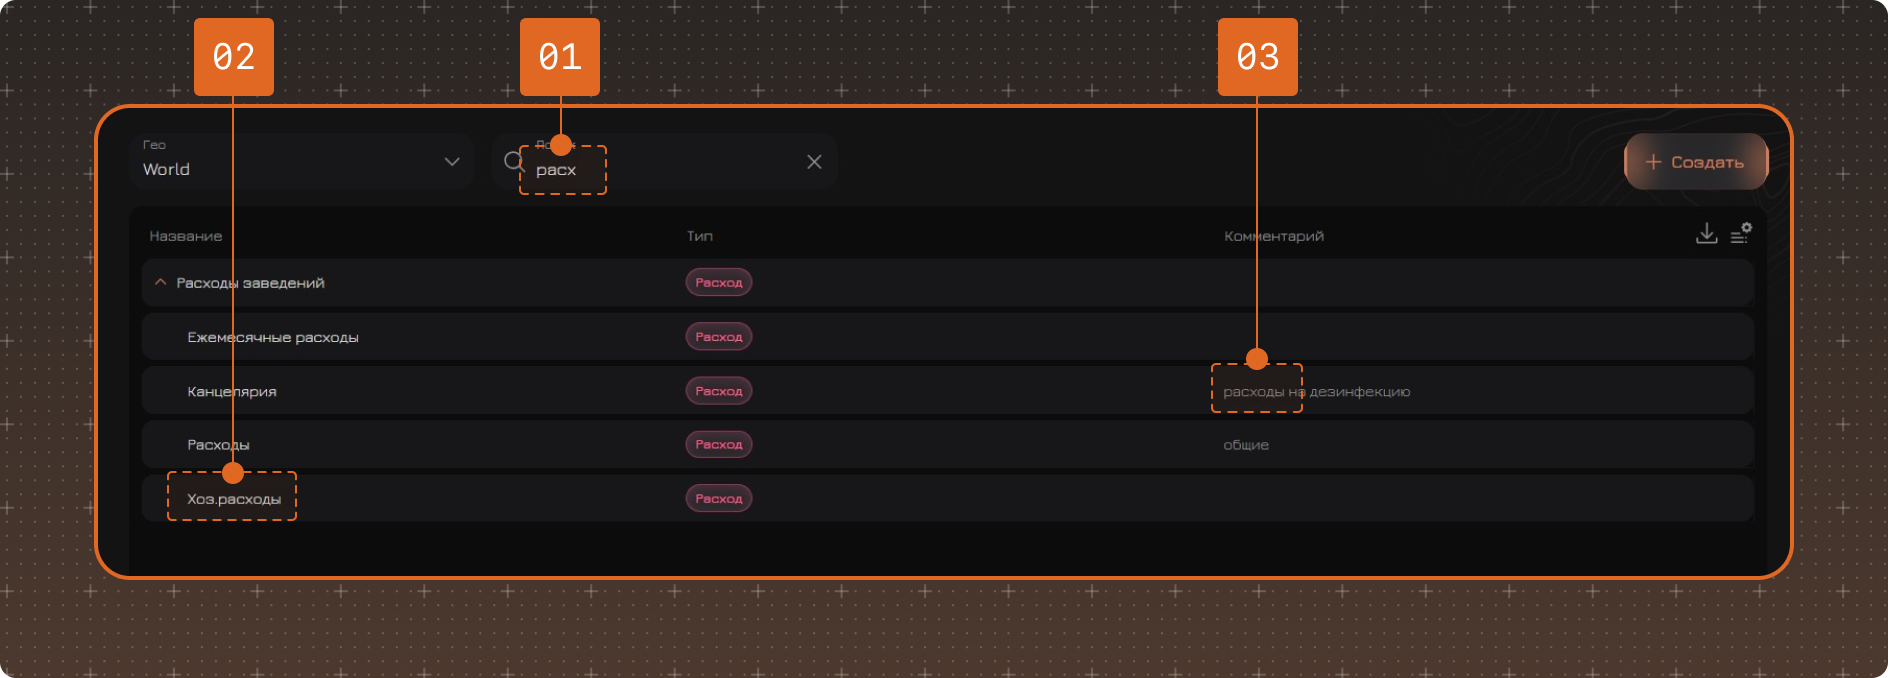
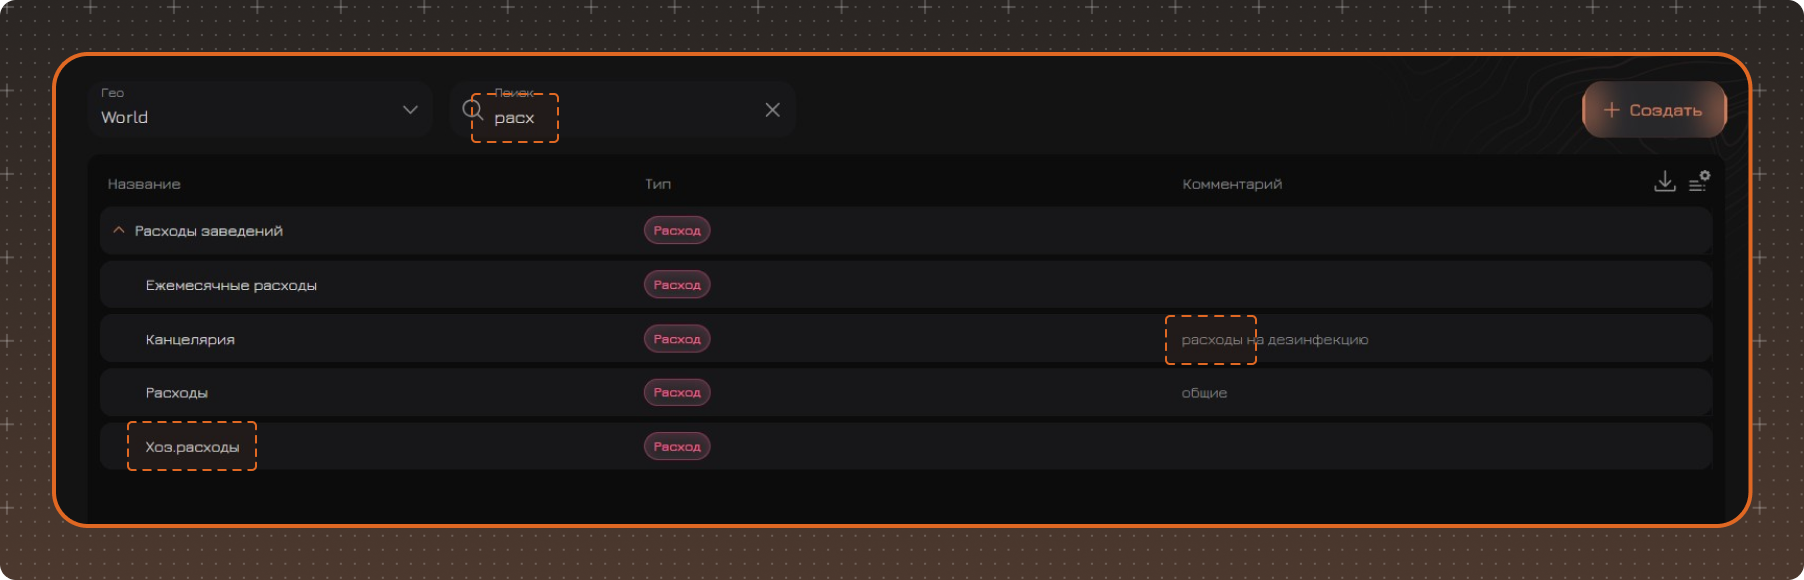
categories update

diff --git a/content/ru/archive/finance/categories/general-info.md b/content/ru/archive/finance/categories/general-info.md
@@ -3,7 +3,7 @@ title: Общая информация
 description: 
 summary: 
 order: 1
-updatedAt: 2026-06-30
+updatedAt: 2026-08-25
 ---
 
 ## Категории
@@ -18,8 +18,8 @@ updatedAt: 2026-06-30
 
 | ENG | RU | Описание |
 |-----|----|----------|
-| **Income** | Доходы | Тип категории, к которой могут относиться только **доходные (входящие)** транзакции. |
-| **Expenses** | Расходы | Тип категории, к которой могут относиться только **расходные (исходящие)** транзакции. |
+| **Income** | Доход | Тип категории, к которой могут относиться только **доходные (входящие)** транзакции. |
+| **Expenses** | Расход | Тип категории, к которой могут относиться только **расходные (исходящие)** транзакции. |
 | **All** | Все | Универсальный тип категории, который может содержать подкатегории и транзакции **любых типов** (**Доходы** или **Расходы**). |
 
 ## Дефолтные категории
@@ -30,7 +30,7 @@ updatedAt: 2026-06-30
 
  [[delimiter rows=1]]
 
-Это 8 категорий, которые система автоматически создаёт **при создании новой локации**. Они покрывают основные ежедневные финансовые потоки заведения и отмечаются ярлычком с замком. Название ярлычка изменить нельзя.
+Это 8 категорий, которые система автоматически создает **при создании новой локации**. Они покрывают основные ежедневные финансовые потоки заведения и отмечаются ярлычком с замком. Название ярлычка изменить нельзя.
 
  - **Общая/General** (All)
    - Эквайринг/Acquiring (Expenses)
@@ -43,7 +43,7 @@ updatedAt: 2026-06-30
 
  После создания локации пользователь может расширять это дерево собственными категориями в зависимости от структуры бизнеса.
 
- Все дефолтные категории создаются внутри **Main Category** - это родительская корневая категория. Она не используется в транзакциях, служит только контейнером для остальных категорий
+ Все дефолтные категории создаются внутри **Main Category** - это родительская корневая категория. Она не используется в транзакциях, служит только контейнером для остальных категорий.
 
 
  ## Описание категорий
@@ -51,7 +51,7 @@ updatedAt: 2026-06-30
  | Название категории  | Тип категории | Описание |
 |--------------------------------------------|---------------|----------|
 | **General / Общая** | **Все** | Базовая универсальная категория. Используется как категория по умолчанию, если транзакция ещё не распределена по конкретной категории |
-| **Acquiring / Эквайринг** | **Расходы** | Комиссии банка за эквайринг.<br><br>При поступлении платежей на банковский аккаунт по категориям **Выручка смены** и **Чаевые** система автоматически создаёт **расходные транзакции** по категории **Эквайринг** в соответствии с заданным в аккаунте (на который пришёл входящий платёж) процентом эквайринга |
+| **Acquiring / Эквайринг** | **Расход** | Комиссии банка за эквайринг. При поступлении платежей на банковский аккаунт по категориям **Выручка смены** и **Чаевые** система автоматически создаёт **расходные транзакции** по категории **Эквайринг** в соответствии с заданным в аккаунте (на который пришёл входящий платёж) процентом эквайринга |
 | **Tips / Чаевые** | **Доход** | Безналичные чаевые |
 | **Cash Shifts / Выручка смены** | **Все** | Выручка заведений |
 | **Profit / Прибыль** | **Расход** | Вывод средств собственником: дивиденды, вывод прибыли и аналогичные операции |
@@ -62,18 +62,18 @@ updatedAt: 2026-06-30
 
 ## Поиск категорий
 
-Поиск позволяет быстро найти нужную категорию.
-
-Поиск:
-- ищет совпадения в названии категории;
-- ищет совпадения в комментарии;
-- выполняется моментально по мере ввода текста;
-- не учитывает регистр символов;
-- отображает только категории, соответствующие поисковому запросу.
-
-
+Поиск позволяет найти категорию по названию или комментарию. Поиск выполняется по мере ввода текста и не учитывает регистр символов.
 
 ![Поиск](/ru/images/categories/search.png)
 
+[[delimiter rows=1]]
+ 
+
+
+
+
+
 
  [[delimiter rows=3]]
+
+ ---

diff --git a/content/ru/archive/finance/categories/create.md b/content/ru/archive/finance/categories/create.md
@@ -3,7 +3,7 @@ title: Создание и редактирование
 description: 
 summary: 
 order: 2
-updatedAt: 2026-07-02
+updatedAt: 2026-08-25
 ---
 
 ## Создание категории
@@ -38,7 +38,7 @@ updatedAt: 2026-07-02
 
 Доступные значения поля **Тип транзакций** зависят от типа родительской категории
 
-> ⚠ Если родительская категория имеет тип:
+>  Если родительская категория имеет тип:
 >
 > - **Все** — доступны типы `Все`, `Доход` и `Расход`
 > - **Доход** — доступен только `Доход`
@@ -50,7 +50,7 @@ updatedAt: 2026-07-02
 
 При изменении родительской категории система повторно проверяет совместимость типа категории.
 
-- если выбранный тип совместим с новым родителем — значение сохраняется;
+- если выбранный тип совместим с новым родителем — значение сохраняется
 - если несовместим — поле **Тип транзакций** очищается, после чего необходимо выбрать допустимый тип
 
 
@@ -73,8 +73,8 @@ updatedAt: 2026-07-02
 
 | Текущий тип | Куда можно перенести |
 |-----------------------------|----------------------|
-| **Доходы** | В категорию **Доходы** или **Все** |
-| **Расходы** | В категорию **Расходы** или **Все** |
+| **Доход** | В категорию **Доход** или **Все** |
+| **Расход** | В категорию **Расход** или **Все** |
 | **Все** | Только в категорию **Все** |
 
 При переносе категории вместе с ней перемещаются все её дочерние категории. При этом типы дочерних категорий не изменяются.
@@ -90,10 +90,12 @@ updatedAt: 2026-07-02
 
 | Текущий тип | Можно изменить на |
 |--------------|-------------------|
-| **Доходы** | **Все**, если родительская категория имеет тип **Все** |
-| **Расходы** | **Все**, если родительская категория имеет тип **Все** |
+| **Доход** | **Все**, если родительская категория имеет тип **Все** |
+| **Расход** | **Все**, если родительская категория имеет тип **Все** |
 | **Все** | Изменение недоступно |
 
 
 [[delimiter rows=3]]
+
+---
 

diff --git a/content/ru/archive/finance/categories/export.md b/content/ru/archive/finance/categories/export.md
@@ -3,7 +3,7 @@ title: Экспорт категорий
 description: 
 summary: 
 order: 3
-updatedAt: 2026-07-01
+updatedAt: 2026-08-26
 ---
 
 [[delimiter rows=2]]
@@ -14,7 +14,7 @@ updatedAt: 2026-07-01
 
 Полученный файл можно использовать как справочник при подготовке файлов для импорта транзакций, когда необходимо вручную указать ID категории.
 
----
+
 
 ## Как выполнить экспорт
 
@@ -22,20 +22,28 @@ updatedAt: 2026-07-01
 2. Нажмите кнопку **Экспорт**.
 3. Система автоматически скачает CSV-файл.
 
-[[info type=custom color=#E06823]] В экспорт включаются только категории, которые не скрыты[[/info]]
 
-![receipt_parser-2](/ru/images/transactions/receipt_parser/receipt_parser-2.jpg)
----
+
+![кнопка экспорт](/ru/images/categories/export.png)
+
+[[delimiter rows=1]]
+
+[[info type=custom color=#E06823]] 
+В экспорт включаются только категории, которые не скрыты[[/info]]
+
+
 
 ## Состав CSV-файла
 
 | Поле | Описание |
 |------|----------|
-| **Geo** | Значение, выбранное в поле **Geo** на момент экспорта. |
-| **ID** | Уникальный идентификатор категории. |
-| **Category** | Название категории. |
-| **Type** | Тип категории: `Расход`, `Доход` или `Все`. |
-| **Comment** | Содержимое поля **Comment**, если оно заполнено. |
+| **Geo** | Значение, выбранное в поле **Geo** на момент экспорта |
+| **ID** | Уникальный идентификатор категории |
+| **Category** | Название категории |
+| **Type** | Тип категории: `Расход`, `Доход` или `Все` |
+| **Comment** | Содержимое поля **Comment**, если оно заполнено |
 
 
 [[delimiter rows=3]]
+
+---

diff --git a/content/ru/archive/salary/general-info.md b/content/ru/archive/salary/general-info.md
@@ -40,7 +40,7 @@ updatedAt: 2026-07-09
 
 
 [[info type=custom color=#E06823]]
-Все компонетны расчета можно использовать как по отдельности, так и в любых сочетаниях
+Все компоненты расчета можно использовать как по отдельности, так и в любых сочетаниях
 [[/info]]
 
 [[delimiter rows=1]]
@@ -61,7 +61,7 @@ updatedAt: 2026-07-09
 
 Если изменить значение любого параметра в грейде, этот параметр перестает наследовать значение роли и использует собственное значение. Остальные параметры продолжают наследоваться от роли.
 
-Чтобы вернуть наследование всех параметров, нажмите **Reset to Role**.
+Чтобы вернуть наследование всех параметров, нажмите **Вернуть к роли**.
 
 
 ### Версии настроек
@@ -86,8 +86,10 @@ updatedAt: 2026-07-09
 
 Если нажать **Раскрыть все**, можно быстро просмотреть все изменения и сравнить выбранную версию с предыдущей.
 
-При восстановлении версии ее настройки становятся активными с выбранного периода.
+При восстановлении версии ее настройки становятся активными с начала выбранного периода.
 
 
 
 [[delimiter rows=3]]
+
+---

diff --git a/content/ru/archive/salary/location-salary.md b/content/ru/archive/salary/location-salary.md
@@ -30,7 +30,7 @@ updatedAt: 2026-07-09
 
 ✔ **При открытии стола** — все личные продажи относятся к сотруднику, который открыл стол.
 
-✔ **При добавлении продукта** — личные продажи относятся к сотруднику, добавившему товар в заказ. В одном заказе могут учитываться продажи нескольких сотрудников. При этом каждый сотрудник получает начисления, связанные с его личными продажами, например процент от продаж или бонусы за квесты.
+✔ **При добавлении продукта** — личные продажи относятся к сотруднику, добавившему продукт в заказ. В одном заказе могут учитываться продажи нескольких сотрудников. При этом каждый сотрудник получает начисления, связанные с его личными продажами, например процент от продаж или бонусы за квесты.
 
 ### Специальные часы
 
@@ -71,3 +71,5 @@ updatedAt: 2026-07-09
 
 
 [[delimiter rows=3]]
+
+---

diff --git a/content/ru/archive/salary/role-salary.md b/content/ru/archive/salary/role-salary.md
@@ -44,9 +44,9 @@ updatedAt: 2026-07-08
 
 ![sales-share](/ru/images/salary/sales-share.png)
 
-**Пример**
->
-> Для категории **Крепкий алкоголь** можно установить начисление **1,5 %**, а для категории **Вино** — **1 %**.
+[[delimiter rows=1]]
+
+> **Пример**. Для категории **Крепкий алкоголь** можно установить начисление **1,5 %**, а для категории **Вино** — **1 %**.
 
 
 
@@ -70,6 +70,8 @@ updatedAt: 2026-07-08
 Если результат экзамена попадает в заданный интервал, сотруднику начисляются все бонусы, настроенные для этого интервала.
 
 ![exam-bonuses](/ru/images/salary/exam-bonuses.png)
+
+[[delimiter rows=1]]
 
 
 ### Штрафы
@@ -124,3 +126,5 @@ updatedAt: 2026-07-08
 
 
 [[delimiter rows=3]]
+
+---

diff --git a/content/ru/marketing/guests/3.guests-statistics.md b/content/ru/marketing/guests/3.guests-statistics.md
@@ -400,7 +400,7 @@ updatedAt: 2026-08-19
 - **Навсегда**
 - **До определённой даты (включительно)**
 
-Чтобы удалить гостя из чёрного списка, нажмите кнопку с троеточием, выберите **Восстановить**, укажите причину восстановления и подтвердите действие.
+Чтобы удалить гостя из чёрного списка, нажмите кнопку с двоеточием, выберите **Восстановить**, укажите причину восстановления и подтвердите действие.
 
 
 

diff --git a/content/ru/archive/finance/categories/delete-hide.md b/content/ru/archive/finance/categories/delete-hide.md
@@ -37,7 +37,7 @@ updatedAt: 2026-07-02
 [[delimiter rows=1]]
 
 
-> ℹ Категории **Main Category**, **Salary** и **Transfer** не отображаются в списке категорий-замены при удалении категории.
+> **Примечание.** Категории **Main Category**, **Salary** и **Transfer** не отображаются в списке категорий-замены при удалении категории.
 
 ### Удаление категории с дочерними категориями
 
@@ -63,6 +63,8 @@ updatedAt: 2026-07-02
 
 
 [[delimiter rows=3]]
+
+---
 
 
 

diff --git a/content/ru/archive/salary/index.md b/content/ru/archive/salary/index.md
@@ -1,6 +1,6 @@
 ---
 title: "Зарплаты"
-description: "Рассчет зарплат."
+description: "Расчет зарплат."
 summary: "Место для краткой информации"
 icon: salary
 order: 5
